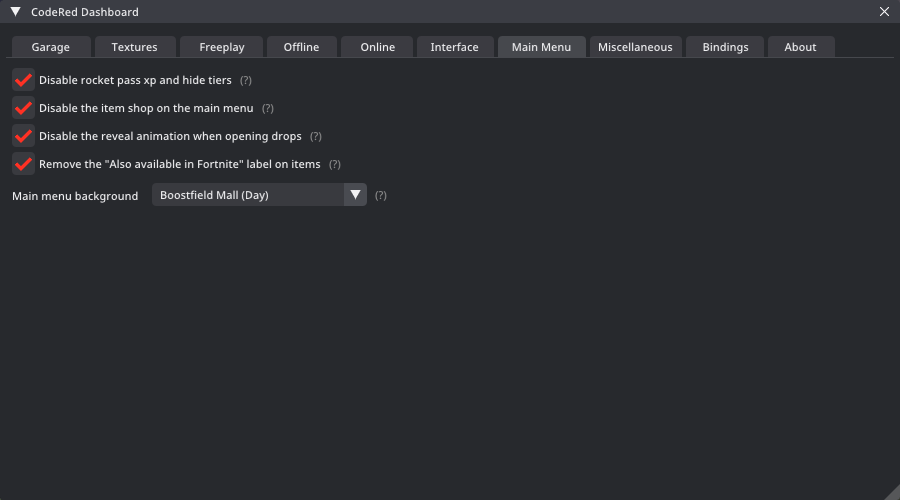
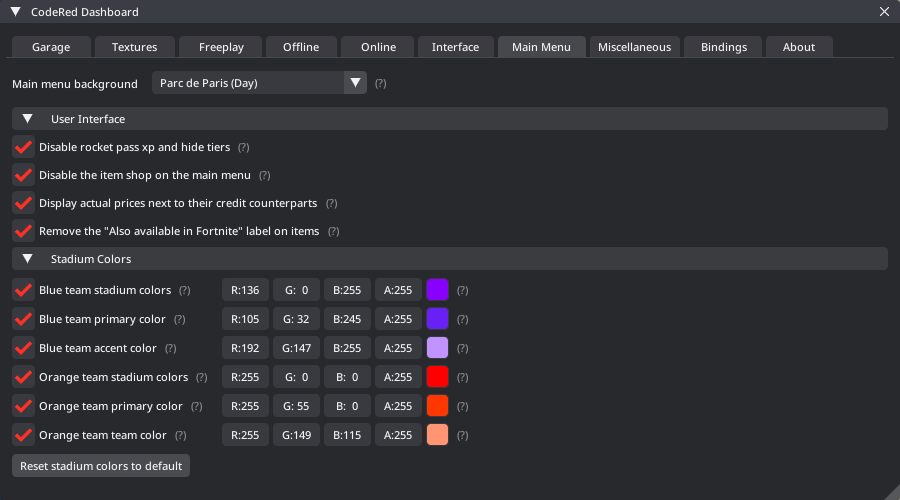
Initial Commit

diff --git a/documentation.html b/documentation.html
@@ -1350,12 +1350,16 @@
                                         <td>Draws an fps counter in the corner of your screen.</td>
                                     </tr>
                                     <tr>
+                                        <th class="theme-bg-light"><b>interface_disable_rocketpass &lttrue-false&gt</b></th>
+                                        <td>Disable rocket pass xp, item, and level progress.</td>
+                                    </tr>
+                                    <tr>
                                         <th class="theme-bg-light"><b>interface_disable_itemshop &lttrue-false&gt</b></th>
                                         <td>Hide the item shop button on the main menu.</td>
                                     </tr>
                                     <tr>
-                                        <th class="theme-bg-light"><b>interface_disable_rocketpass &lttrue-false&gt</b></th>
-                                        <td>Disable rocket pass xp, item, and level progress.</td>
+                                        <th class="theme-bg-light"><b>interface_show_prices &lttrue-false&gt</b></th>
+                                        <td>Show actual prices next to their credit price for items in the shop, this already exists in game for EU residents but Psyonix hides it for the rest of the world.</td>
                                     </tr>
                                     <tr>
                                         <th class="theme-bg-light"><b>interface_hide_seasonranks &lttrue-false&gt</b></th>
@@ -1968,6 +1972,56 @@
                                     <tr>
                                         <th class="theme-bg-light"><b>stadium_orange_hud_enabled &lttrue-false&gt</b></th>
                                         <td>The stadium colors to override on the orange team in online matches.</td>
+                                    </tr>
+                                    <tr>
+                                        <th class="theme-bg-light"><b>menu_blue_enabled &lttrue-false&gt</b></th>
+                                        <td>Enable overriding the blue stadium colors on the main menu.</td>
+                                    </tr>
+                                    <tr>
+                                        <th class="theme-bg-light"><b>menu_blue_stadium &lt#1873FF&gt</b></th>
+                                        <td>The stadium colors to override on the blue team on the main menu.</td>
+                                    </tr>
+                                    <tr>
+                                        <th class="theme-bg-light"><b>menu_blue_primary_enabled &lttrue-false&gt</b></th>
+                                        <td>Enable using custom primary paint colors on the blue team on the main menu.</td>
+                                    </tr>
+
+                                    <tr>
+                                        <th class="theme-bg-light"><b>menu_blue_primary &lt#FFFFFF&gt</b></th>
+                                        <td>The blue primary paint colors to apply to your car on the main menu.</td>
+                                    </tr>
+                                    <tr>
+                                        <th class="theme-bg-light"><b>menu_blue_accent_enabled &lttrue-false&gt</b></th>
+                                        <td>Enable using custom accent paint colors on the blue team on the main menu.</td>
+                                    </tr>
+                                    <tr>
+                                        <th class="theme-bg-light"><b>menu_blue_accent &lt#FFFFFF&gt</b></th>
+                                        <td>The blue accent paint colors to apply to your car on the main menu.</td>
+                                    </tr>
+                                                                        <tr>
+                                        <th class="theme-bg-light"><b>menu_orange_enabled &lttrue-false&gt</b></th>
+                                        <td>Enable overriding the orange stadium colors on the main menu.</td>
+                                    </tr>
+                                    <tr>
+                                        <th class="theme-bg-light"><b>menu_orange_stadium &lt#1873FF&gt</b></th>
+                                        <td>The stadium colors to override on the orange team on the main menu.</td>
+                                    </tr>
+                                    <tr>
+                                        <th class="theme-bg-light"><b>menu_orange_primary_enabled &lttrue-false&gt</b></th>
+                                        <td>Enable using custom primary paint colors on the orange team on the main menu.</td>
+                                    </tr>
+
+                                    <tr>
+                                        <th class="theme-bg-light"><b>menu_orange_primary &lt#FFFFFF&gt</b></th>
+                                        <td>The orange primary paint colors to apply to your car on the main menu.</td>
+                                    </tr>
+                                    <tr>
+                                        <th class="theme-bg-light"><b>menu_orange_accent_enabled &lttrue-false&gt</b></th>
+                                        <td>Enable using custom accent paint colors on the orange team on the main menu.</td>
+                                    </tr>
+                                    <tr>
+                                        <th class="theme-bg-light"><b>menu_orange_accent &lt#FFFFFF&gt</b></th>
+                                        <td>The orange accent paint colors to apply to your car on the main menu.</td>
                                     </tr>
                                 </tbody>
                             </table>

diff --git a/changelog.html b/changelog.html
@@ -62,6 +62,7 @@
 		    <nav id="docs-nav" class="docs-nav navbar">
 			    <ul class="section-items list-unstyled nav flex-column pb-3">
                     <li class="nav-item section-title mt-3"><a class="nav-link scrollto" href="#section-3"><span class="theme-icon-holder me-2"><i class="fas fa-book"></i></span>Module Changelog</a></li>
+                    <li class="nav-item"><a class="nav-link scrollto" href="#item-3-8-8">Version 2.8.8</a></li>
                     <li class="nav-item"><a class="nav-link scrollto" href="#item-3-8-7">Version 2.8.7</a></li>
                     <li class="nav-item"><a class="nav-link scrollto" href="#item-3-8-6">Version 2.8.6</a></li>
                     <li class="nav-item"><a class="nav-link scrollto" href="#item-3-8-5">Version 2.8.5</a></li>
@@ -204,6 +205,17 @@
 		    <div class="container">
                 <article class="docs-article" id="section-3">
                     <h1 class="docs-heading">Changelog</h1>
+
+                        <section class="docs-section" id="item-3-8-8">
+                        <h2 class="section-heading">Version 2.8.8 (December 19th 2025)</h2>
+                            <h5>- Added several new settings that let you customize the stadium colors on the main menu.</h5>
+                            <h5>- Added a new setting <code>interface_show_prices</code>, which shows the actual price of items in the shop next to their credits.</h5>
+                            <h5>- Added support for the "Ranked Heatseeker" playlist for mmr needed to rank up or down in the tracker window.</h5>
+                            <h5>- Added customization support for the "Ranked Heatseeker" playlist in the "Textures" tab.</h5>
+                            <h5>- Fixed a couple custom widgets in the dashboard not switching between being enabled and disabled properly.</h5>
+                            <h5>- Fixed your CodeRed loadouts accent color not applying in certain senarios.</h5>
+                            <h5>- More safety improvements related to encoding and decoding UTF32 characters.</h5>
+                        </section>
 
                         <section class="docs-section" id="item-3-8-7">
                             <h2 class="section-heading">Version 2.8.7 (December 9th 2025)</h2>
